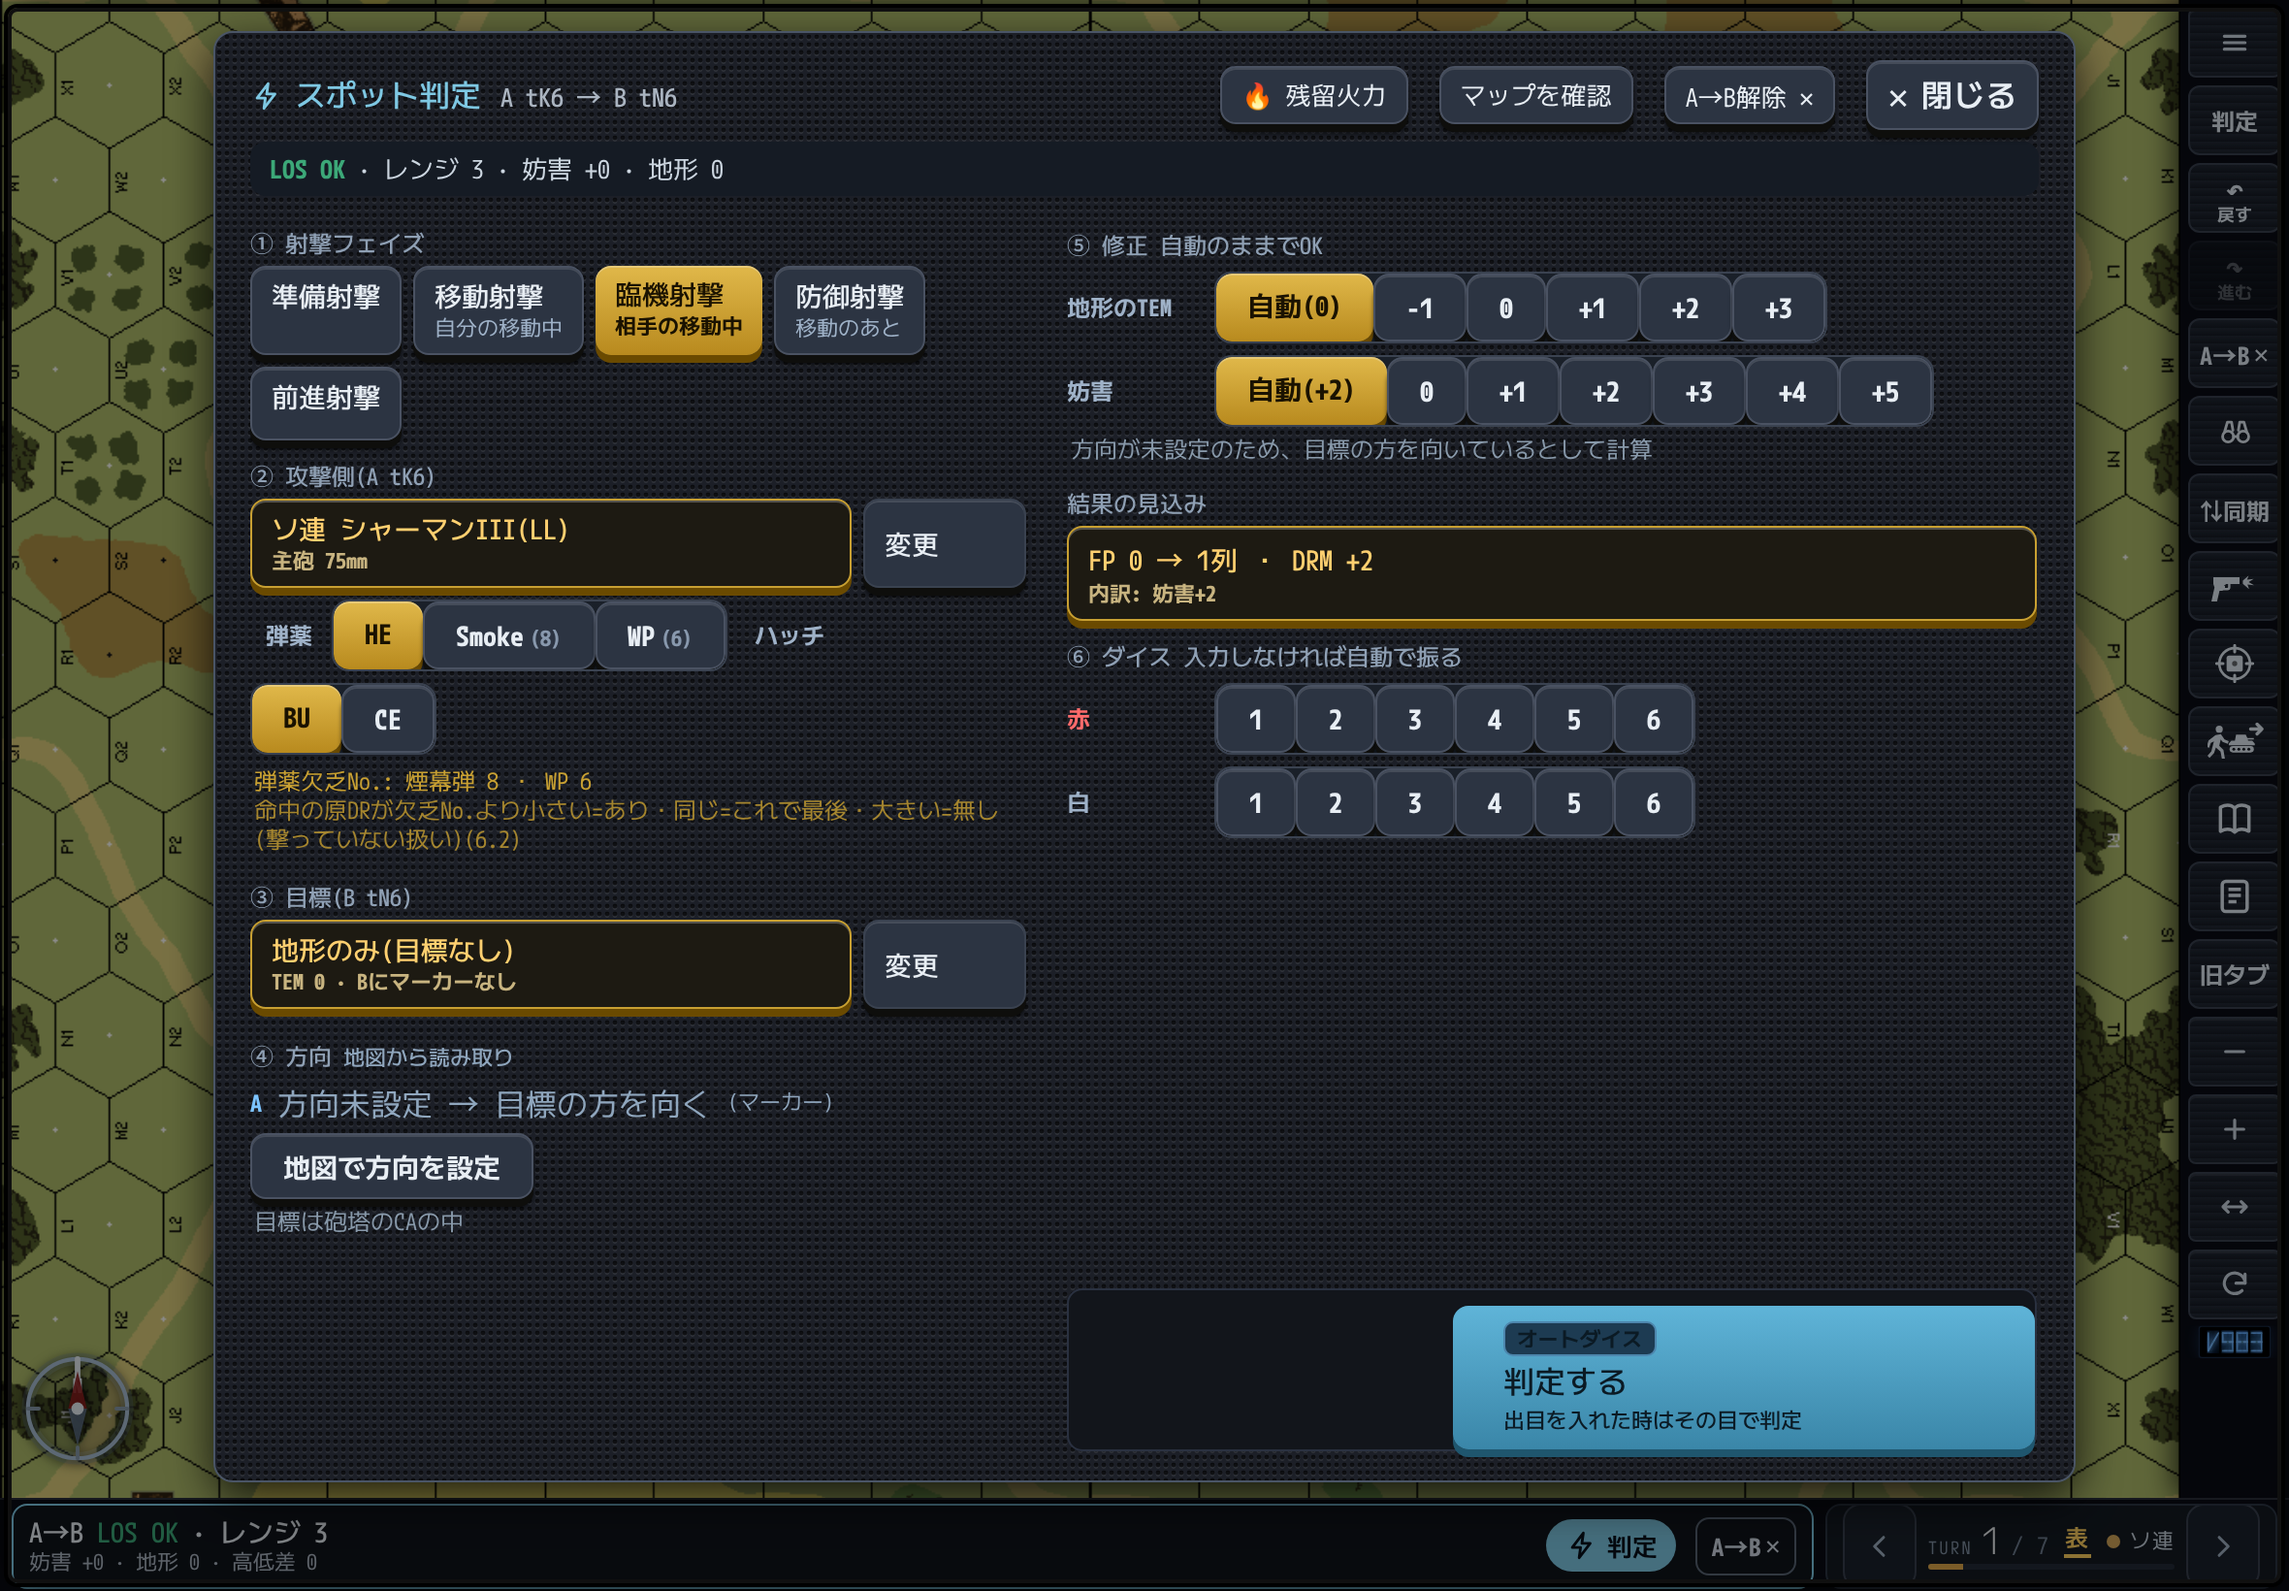
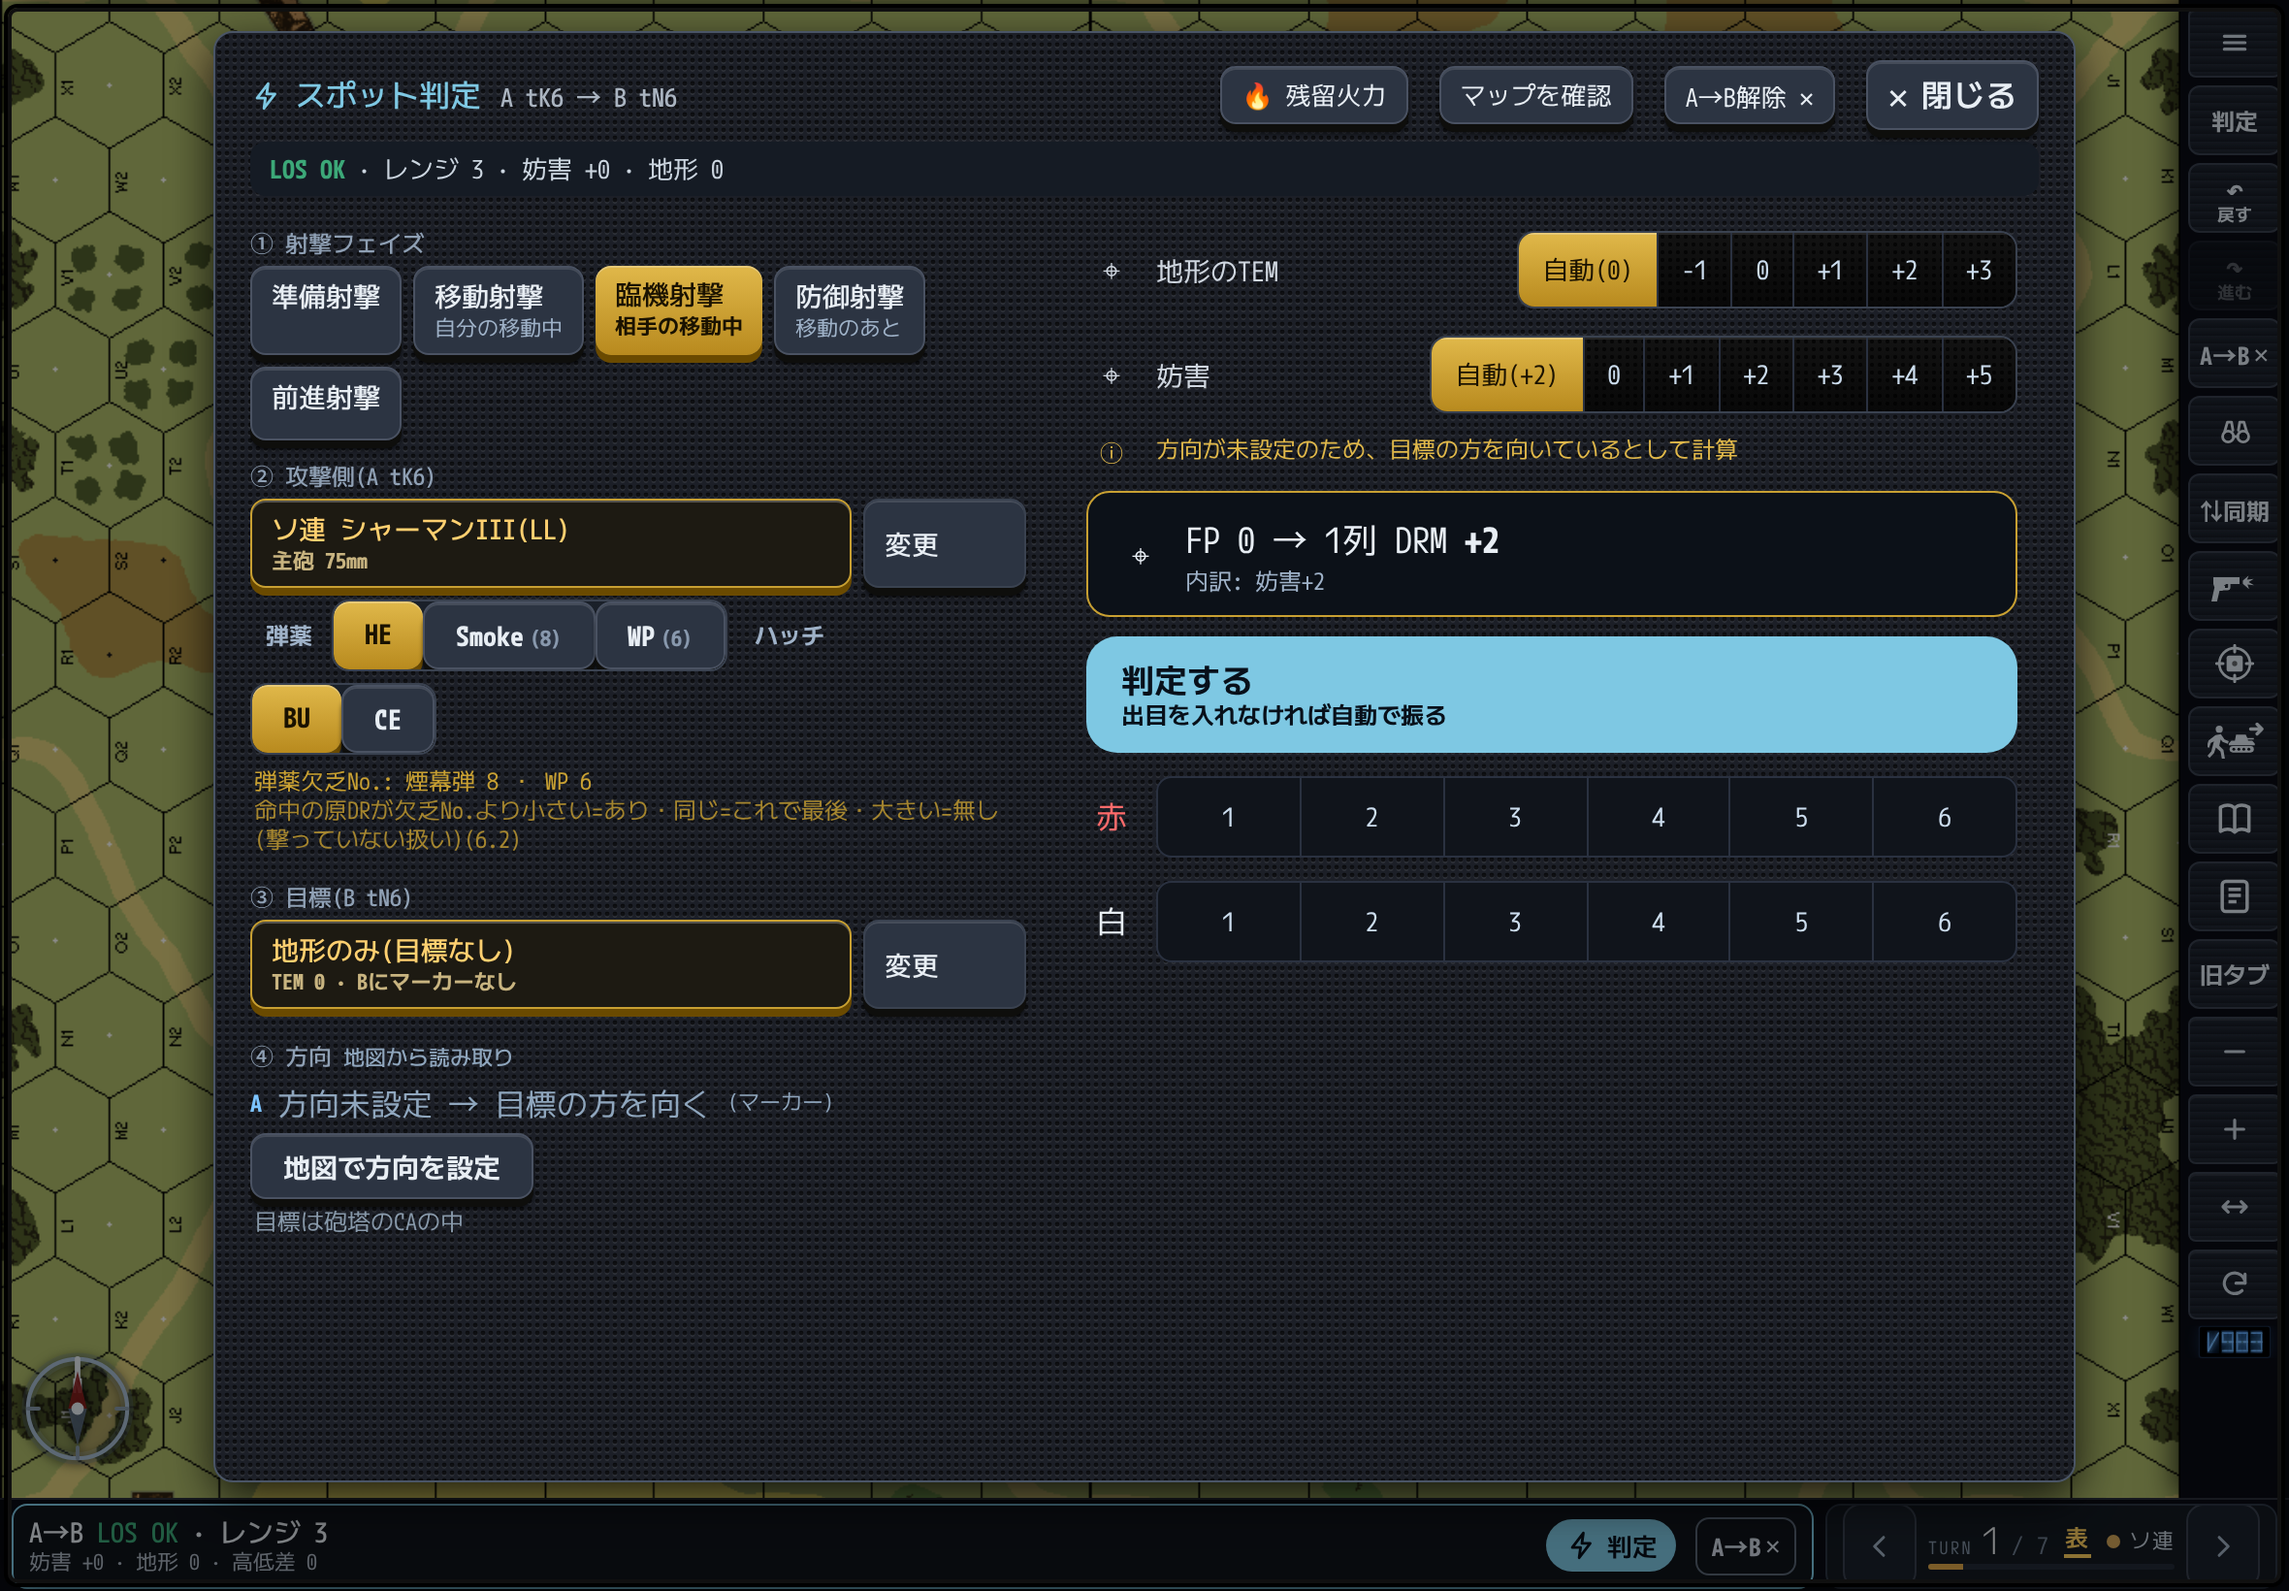
sample: スポット判定の右側をマルチ判定の判定ツールと同じボタン・ダイスで
Claude-Session: https://claude.ai/code/session_011tDAL4nwCsDzwZzdcRSPUW

diff --git a/dev/sprmock.js b/dev/sprmock.js
@@ -3,13 +3,16 @@ await p.goto('file://'+__dirname+'/../index.html',{timeout:180000});await p.wait
 const r=await p.evaluate(async()=>{const W=ms=>new Promise(r=>setTimeout(r,ms));S.scen=S.scen||{};S.scen.sel='S24';for(var i=0;i<4;i++){try{Draw();}catch(e){}await W(1500);}await btEnsureGraph();var N=BTG.nodes,id=nm=>N.findIndex(n=>n.nm===nm);var o=[];
 try{try{nmModeSet('judge');}catch(e){}await W(1500);var A=N[id('tK6')],B=N[id('tN6')];S_LOS.pxA={x:A.x,y:A.y};S_LOS.pxB={x:B.x,y:B.y};LosRunPixel();await W(4000);nmIjOpen();await W(800);nmIjSet('ph','dff');await W(300);nmIjSet('place',0);await W(500);nmIjBTerr();await W(2500);
 var h=document.getElementById('ijRes');if(!h)return ['nohost'];
-var sg=function(a,on){return '<div class="ijSg sm">'+a.map(function(t,i){return '<button class="ijB'+(i===on?' on':'')+'"><b>'+t+'</b></button>';}).join('')+'</div>';};
-var row=function(l,c){return '<div class="ijRow" style="margin-top:6px;align-items:center"><span class="ijFl" style="color:#9fb2c8;min-width:64px;margin:0 6px 0 0">'+l+'</span>'+c+'</div>';};
-h.innerHTML='<div class="ijS">⑤ 修正 <span>自動のままでOK</span></div>'
-+row('地形のTEM',sg(['自動(0)','-1','0','+1','+2','+3'],0))+row('妨害',sg(['自動(+2)','0','+1','+2','+3','+4','+5'],0))
-+'<div class="ijNote">方向が未設定のため、目標の方を向いているとして計算</div>'
-+'<div class="ijS">結果の見込み</div><div class="ijRow"><div class="ijB on ijSum" style="flex:1"><b>FP 0 → 1列 ・ DRM +2</b><small>内訳: 妨害+2</small></div></div>'
-+'<div class="ijS">⑥ ダイス <span>入力しなければ自動で振る</span></div>'
-+row('<b style="color:#ff6b6b">赤</b>',sg(['1','2','3','4','5','6'],-1))+row('<b>白</b>',sg(['1','2','3','4','5','6'],-1));
-var e=h;while(e&&!e.classList.contains('ijCols')){e.style.setProperty('background','transparent','important');e.style.setProperty('border-color','transparent','important');e.style.setProperty('box-shadow','none','important');e=e.parentElement;}h.style.setProperty('padding','0','important');[].forEach.call(h.querySelectorAll('.ijFl'),function(x){x.style.color='#9fb2c8';});o.push('ok');}catch(e){o.push(String(e));}return o;});
+var B='radial-gradient(circle,#000000aa .9px,transparent 1.25px) 0 0/4px 4px,linear-gradient(#131313 0%,#0d0d0d 50%,#080808 100%)';
+var seg=function(a,on){return '<span style="display:inline-flex;background:#0003;border:1px solid #3a4250;border-radius:9px;overflow:hidden">'+a.map(function(t,i){var o=i===on;return '<button style="border:0;border-left:'+(i?'1px solid #2a3140':'0')+';height:38px;padding:0 12px;font:700 14px inherit;font-family:inherit;color:'+(o?'#1a1200':'#ccddee')+';background:'+(o?'linear-gradient(#e0b84a,#b88a1e)':B)+';box-shadow:'+(o?'0 4px 0 #6a4a00,inset 0 1px 0 #ffffff40':'inset 0 1px 0 #ffffff14')+'">'+t+'</button>';}).join('')+'</span>';};
+var dice=function(){return '<span style="display:inline-flex;flex:1;background:#10141b;border:1px solid #2a3140;border-radius:8px;overflow:hidden">'+[1,2,3,4,5,6].map(function(v,i){return '<button style="flex:1;border:0;border-left:'+(i?'1px solid #2a3140':'0')+';height:40px;background:transparent;color:#ccddee;font:800 15px inherit;font-family:inherit">'+v+'</button>';}).join('')+'</span>';};
+var row=function(ic,l,c){return '<div style="display:flex;align-items:center;gap:10px;padding:7px 4px"><span style="width:26px;text-align:center;color:#cfd6df">'+ic+'</span><span style="flex:1;font-size:14px;color:#cfd6df">'+l+'</span>'+c+'</div>';};
+h.innerHTML='<div style="padding:4px 6px;color:#e8eef4">'
++row('⌖','地形のTEM',seg(['自動(0)','-1','0','+1','+2','+3'],0))+row('⌖','妨害',seg(['自動(+2)','0','+1','+2','+3','+4','+5'],0))
++'<div style="display:flex;gap:10px;padding:4px 4px 8px;font-size:12px;color:#e0b84a"><span style="width:26px;text-align:center">ⓘ</span><span>方向が未設定のため、目標の方を向いているとして計算</span></div>'
++'<div style="margin:4px 4px;padding:10px 14px;border:1.5px solid #c8a032;border-radius:12px;background:#0c1118;display:flex;gap:10px;align-items:center"><span style="width:26px;text-align:center">⌖</span><div><div style="font-size:18px">FP 0 → 1列　DRM <b>+2</b></div><div style="font-size:12px;color:#9fb2c8;margin-top:2px">内訳: 妨害+2</div></div></div>'
++'<div style="margin:10px 4px 6px;padding:12px 18px;border-radius:16px;background:#7ec8e3;color:#08101a"><div style="font-size:17px;font-weight:900">判定する</div><div style="font-size:12px;font-weight:700">出目を入れなければ自動で振る</div></div>'
++'<div style="display:flex;align-items:center;gap:10px;padding:6px 4px"><span style="width:26px;text-align:center;color:#ff6b6b">赤</span>'+dice()+'</div>'
++'<div style="display:flex;align-items:center;gap:10px;padding:6px 4px"><span style="width:26px;text-align:center">白</span>'+dice()+'</div></div>';
+var e=h;while(e&&!e.classList.contains('ijCols')){e.style.setProperty('background','transparent','important');e.style.setProperty('border-color','transparent','important');e.style.setProperty('box-shadow','none','important');e=e.parentElement;}h.style.setProperty('padding','0','important');[].forEach.call(h.querySelectorAll('.ijFl'),function(x){x.style.color='#9fb2c8';});[].forEach.call(document.querySelectorAll('#nmIj .ijGo'),function(g){var x=g.parentElement;(x&&x!==h?x:g).style.display='none';});o.push('ok');}catch(e){o.push(String(e));}return o;});
 await p.waitForTimeout(500);await p.screenshot({path:process.argv[2]});console.log(E,r);await b.close();})();
